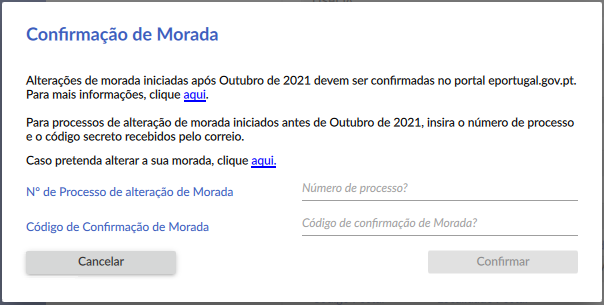
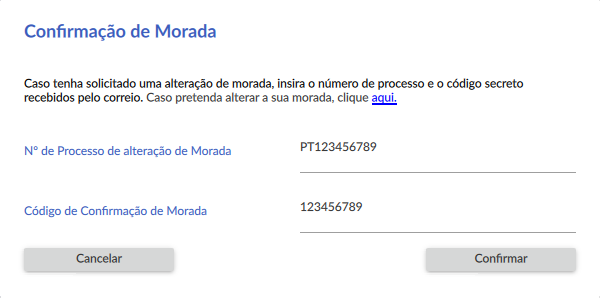
Revert remote address changes

diff --git a/user_manual.md b/user_manual.md
@@ -32,8 +32,7 @@
     - [Menu Cartão](#menu-cartão)
       - [Identidade](#identidade)
       - [Outros dados](#outros-dados)
-      - [Morada e Alteração de morada (Desde a versão lançada em Outubro de 2021)](#morada-e-alteração-de-morada-desde-a-versão-lançada-em-outubro-de-2021)
-      - [Morada e Alteração de morada (Versões anteriores a Outubro de 2021)](#morada-e-alteração-de-morada-versões-anteriores-a-outubro-de-2021)
+      - [Morada e Alteração de morada](#morada-e-alteração-de-morada)
       - [Notas](#notas)
       - [Imprimir](#imprimir)
     - [Assinatura digital](#assinatura-digital)
@@ -496,51 +495,7 @@ estado do Cartão de Cidadão.
 
 ![Ilustração: Outros dados](Pictures/Autenticacao.Gov_Outros_Dados.png "Outros dados"){:.center}
 
-#### Morada e Alteração de morada (Desde a versão lançada em Outubro de 2021)
-
-> **⚠ IMPORTANTE: Consulta de Morada do Cartão de Cidadão.**  
-> Desde a versão lançada em Outubro de 2021 da aplicação local Autenticação.Gov a morada do Cartão de Cidadão é lida a partir dos serviços centrais.
-> Isto implica uma ligação à Internet funcional para a leitura da morada.
-> Para processos de alteração de morada iniciados após Outubro de 2021 (data a confirmar), a confirmação de morada fica apenas disponível no portal [eportugal.gov.pt](https://eportugal.gov.pt/servicos/confirmar-a-alteracao-de-morada-do-cartao-de-cidadao).
-> É por isso necessário garantir que não existe *firewall* ou outro *software* na rede local que impeça a ligação ao endereço `morada.cartaodecidadao.pt`, porto 443.
-
-Dentro do separador “Morada” é possível visualizar a morada atual e aceder ao portal [eportugal.gov.pt](https://eportugal.gov.pt/servicos/confirmar-a-alteracao-de-morada-do-cartao-de-cidadao) para completar o processo de alteração da morada. 
-
-Ambas as funcionalidades requerem uma ligação à Internet. Por favor certifique-se que está ligado
-antes de iniciar o processo.
-
-Para terminar o processo de alteração de morada, consultes os seguintes *websites*:
-
-[Alteracao de morada](https://www.autenticacao.gov.pt/cartao-cidadao/alteracao-morada).
-
-[Confirmar a alteracao de morada](https://eportugal.gov.pt/servicos/confirmar-a-alteracao-de-morada-do-cartao-de-cidadao).
-
-
-**Nota:** Durante o processo de alteração de morada, o cidadão terá de
-se autenticar, por isso deverá ter presente e desbloqueado o seu PIN de
-autenticação.
-
-**Erros durante a consulta e/ou alteração de morada:**
-
-Caso a aplicação não consiga consultar ou efetuar a confirmação da alteração de morada será mostrada uma mensagem de erro.
-
-* **Este erro pode ser resultado da interferência na rede, por um software externo à aplicação Autenticação.Gov.**
-
-  A consulta e alteração de morada requerem a ligação a serviços online para funcionarem corretamente. É por isso necessário garantir que não existe firewall ou outro software na rede local que impeça a ligação a estes serviços. Garanta que os seguintes serviços não são bloqueados:
-  * pki.cartaodecidadao.pt (porto 443) 
-  * (Desde a versão lançada em Outubro de 2021): morada.cartaodecidadao.pt (porto 443)
-  
-  No caso de estar ligado a uma rede empresarial, contacte o seu administrador de rede e peça uma configuração de rede que resolva o problema.
-  
-![Ilustração: Erro na alteração de morada](Pictures/Autenticacao.Gov_morada5.png "Pedido de confirmação em processamento"){:.center}
-
-#### Morada e Alteração de morada (Versões anteriores a Outubro de 2021)
-
-> **⚠ IMPORTANTE: Consulta de Morada do Cartão de Cidadão.**  
-> Desde a versão lançada em Outubro de 2021 da aplicação local Autenticação.Gov a morada do Cartão de Cidadão é lida a partir dos serviços centrais.
-> Isto implica uma ligação à Internet funcional para a leitura da morada.
-> Para processos de alteração de morada iniciados após Outubro de 2021 (data a confirmar), a confirmação de morada fica apenas disponível no portal [eportugal.gov.pt](https://eportugal.gov.pt/servicos/confirmar-a-alteracao-de-morada-do-cartao-de-cidadao).
-> É por isso necessário garantir que não existe *firewall* ou outro *software* na rede local que impeça a ligação ao endereço `morada.cartaodecidadao.pt`, porto 443.
+#### Morada e Alteração de morada
 
 Dentro do separador “Morada” é possível visualizar a morada atual e
 completar o processo de alteração da morada. Esta última funcionalidade
@@ -558,7 +513,7 @@ seguintes passos:
 
     ![Ilustração: Introduzir dados na confirmar de alteração de morada    ](Pictures/Autenticacao.Gov_Morada.png "Introduzir dados na confirmar de alteração de morada"){:.center}
 
-2.  Alterações de morada iniciadas após Outubro de 2021 devem ser confirmadas no portal [eportugal.gov.pt](https://eportugal.gov.pt/servicos/confirmar-a-alteracao-de-morada-do-cartao-de-cidadao). Para processos de alteração de morada iniciados antes de Outubro de 2021, insira o número de processo e o código secreto recebidos pelo correio.
+2.  Caso tenha solicitado uma alteração de morada, insira o número de processo e o código secreto recebidos pelo correio.
 
     ![Ilustração: Confirmar alteração de morada](Pictures/Autenticacao.Gov_morada2.png "Confirmar alteração de morada"){:.center}
 
@@ -589,7 +544,7 @@ seguintes passos:
 
       - **Não existe uma alteração de morada registada para este cartão.**
 
-        Para processos de alteração de morada iniciados após Outubro de 2021, a confirmação de morada fica apenas disponível no portal [eportugal.gov.pt](https://eportugal.gov.pt/servicos/confirmar-a-alteracao-de-morada-do-cartao-de-cidadao). Para processos de alteração de morada iniciados antes de Outubro de 2021, verifique que está a usar o Cartão de Cidadão correcto.
+        Caso tenha solicitado uma alteração de morada, verifique que está a usar o Cartão de Cidadão correcto.
 
         ![Ilustração: Erro na alteração de morada](Pictures/Autenticacao.Gov_morada4.png "Erro na alteração de morada"){:.center}
 
@@ -599,6 +554,14 @@ seguintes passos:
 
         ![Ilustração: Erro na alteração de morada](Pictures/Autenticacao.Gov_Alteracao_morada_erro_n_confirmada.png "Erro na alteração de morada"){:.center}
 
+      - **Este erro pode ser resultado da interferência na rede, por um software externo à aplicação Autenticação.Gov.**
+
+        A alteração de morada requer a ligação a um serviço online para funcionar corretamente. É por isso necessário garantir que não existe firewall ou outro software na rede local que impeça a ligação a este serviço. Garanta que o seguinte serviço não é bloqueado:
+        * pki.cartaodecidadao.pt (porto 443) 
+
+        No caso de estar ligado a uma rede empresarial, contacte o seu administrador de rede e peça uma configuração de rede que resolva o problema.
+        
+        ![Ilustração: Erro na alteração de morada](Pictures/Autenticacao.Gov_morada5.png "Pedido de confirmação em processamento"){:.center}
       - **O prazo de confirmação da alteração de morada expirou. Por favor efetue um novo pedido através dos balcões de atendimento ou do portal ePortugal.**
 
         Neste caso deverá efectuar um novo pedido através dos balcões de atendimento ou do portal ePortugal.
@@ -1704,10 +1667,6 @@ Servidores CRL:
 **Alteração de morada:**
 
 - pki.cartaodecidadao.pt (porto 443)
-
-**Consulta de morada (Desde a versão lançada em Outubro de 2021):**
-
-- morada.cartaodecidadao.pt (porto 443)
 
 **Atualização da aplicação:**
 - autenticacao.gov.pt (porto 443)

diff --git a/manual_sdk.md b/manual_sdk.md
@@ -573,21 +573,6 @@ PTEID_ByteArray ppng = photoObj.getphoto();	    // formato PNG
 O ficheiro da morada só pode ser lido após a verificação do pin da
 morada correcto.
 
-Para obter os dados da morada deverá ser utilizado o método **PTEID_EIDCard.getAddr()**.
-
-**Importante**: Desde a versão lançada em Outubro de 2021 do Middleware a morada do CC é lida a partir dos serviços centrais
-o que implica ligação à Internet funcional para a utilização da classe `PTEID_Address` para além da presença do cartão no leitor. É por isso necessário garantir que não existe *firewall* ou outro *software* na rede local que impeça a ligação ao endereço `morada.cartaodecidadao.pt`, porto 443.
-
-Existem a partir da referida versão novos códigos de erro relacionados com a utilização deste serviço online e que seguidamente são descritos:
-
-| Constante associada ao código de erro |                    Descrição                       |
-| ------------------------------------- | -------------------------------------------------- |
-|  EIDMW_REMOTEADDR_CONNECTION_ERROR    | Erro de ligação ao serviço de leitura de morada (devido a falta de conectividade ou erro no handshake TLS )|
-|  EIDMW_REMOTEADDR_SERVER_ERROR        | Erro retornado pelo serviço de leitura de morada   |
-|  EIDMW_REMOTEADDR_CONNECTION_TIMEOUT  | Timeout na obtenção de resposta do serviço         |
-|  EIDMW_REMOTEADDR_SMARTCARD_ERROR     | Erro gerado pelo smartcard no processo de leitura de morada online |
-|  EIDMW_REMOTEADDR_UNKNOWN_ERROR       | Erro inesperado no processo de leitura de morada online            |
-
 Para mais informação sobre tratamento de erros gerados pelo SDK ver a secção [**Tratamento de Erros**](#tratamento-de-erros).
 
 

diff --git a/README.md b/README.md
@@ -1,13 +1,5 @@
 # Documentação do Middleware Oficial de Identificação Eletrónica em Portugal - Cartão de Cidadão, da Chave Móvel Digital e Sistema de Certificação de atributos profissionais
 
-## Novidades
-
-> **⚠ IMPORTANTE: Consulta de Morada do Cartão de Cidadão.**  
-> Desde a versão lançada em Outubro de 2021 do Middleware a morada do Cartão de Cidadão é lida a partir dos serviços centrais.
-> 
-> Isto implica uma ligação à Internet funcional para a utilização da classe `PTEID_Address` para além da presença do cartão no leitor.
-> 
-> Para utilizadores do SDK, consultar o [Manual do SDK (online)](https://amagovpt.github.io/docs.autenticacao.gov/manual_sdk.html#obten%C3%A7%C3%A3o-da-morada).
 ## Introdução
 
 Este repositório contêm apenas a documentação do projecto. O projecto está disponivel em: https://github.com/amagovpt/autenticacao.gov
